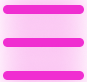
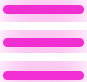
fix: background update

Changed region(s): [[0.023, 0.6341, 0.9885, 0.7561], [0.023, 0.2683, 0.9885, 0.3659]]

diff --git a/src/components/Header/Header.js b/src/components/Header/Header.js
@@ -1,4 +1,4 @@
-import headerBackground from '../../images/header-background.png';
+import headerBackground from '../../images/main-background.png';
 import headerBackgroundNoise from '../../images/header-background-noise.png';
 
 function Header({ onContactsClick, onNavigationClick}) {
@@ -31,16 +31,7 @@ function Header({ onContactsClick, onNavigationClick}) {
       </button>
       <button className='header__menu' onClick={onNavigationClick}></button>
       <div className='header__background'>
-        <img
-          className='header__background-main'
-          src={headerBackground}
-          alt='header-background'
-        />
-        <img
-          className='header__background-noise'
-          src={headerBackgroundNoise}
-          alt='header-background'
-        />
+        <img src={headerBackground} className='header__background-main header__background-main-effect'/>
       </div>
     </header>
   );

diff --git a/src/components/Header/Header.css b/src/components/Header/Header.css
@@ -15,14 +15,21 @@
   top: 0px;
   left: 0px;
   width: 100%;
-  z-index: 1;
+  height: 700px;
+  z-index: -1;
 }
 
 .header__background-main {
   width: 100%;
-  opacity: .6;
-  filter: blur(2px);
+  height: 100%;
+  opacity: .4;
+  filter: blur(3px) brightness(.8);
+  clip-path: polygon(0 0, 100% 0%, 100% 100%, 0 74%);
 }
+
+/* .header__background-main-effect {
+  filter: brightness(.8);
+} */
 
 .header__background-noise {
   position: inherit;
